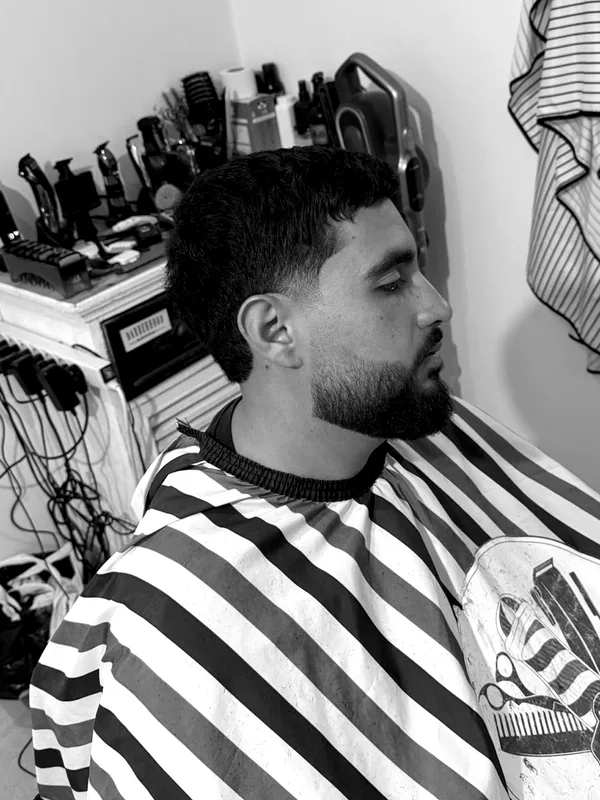
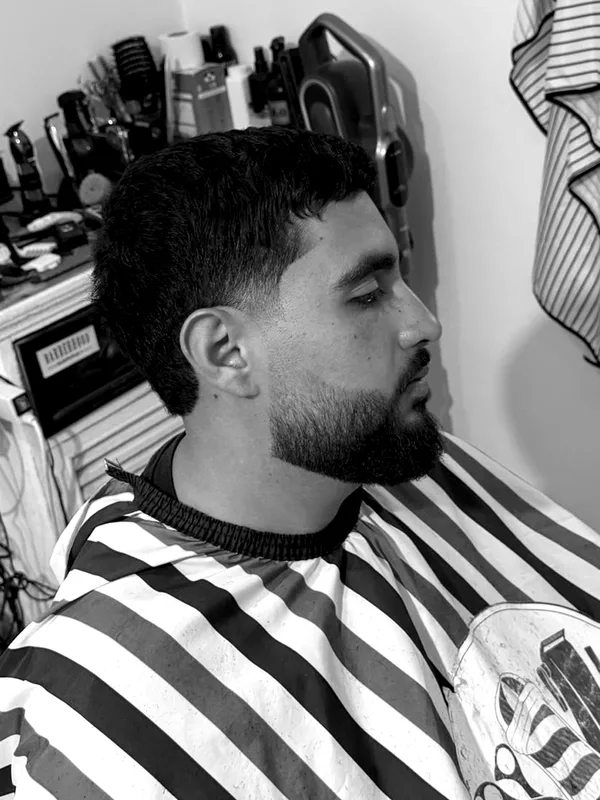
Tighter crop for gallery photo 5 to match the others
Claude-Session: https://claude.ai/code/session_018U6XnTRw8cfK5aTqAa1Hdx

diff --git a/index.html b/index.html
@@ -57,7 +57,7 @@
         <figure><div class="ph"><img src="img/work2.webp" alt="מידל פארט עם פלואו אחורי" loading="lazy" width="600" height="800"></div><figcaption><b>מידל פארט עם פלואו אחורי</b></figcaption></figure>
         <figure><div class="ph"><img src="img/work3.webp" alt="בארסט פייד" loading="lazy" width="600" height="800"></div><figcaption><b>בארסט פייד</b></figcaption></figure>
         <figure><div class="ph"><img src="img/work4.webp" alt="טייפר וזקן" loading="lazy" width="600" height="800"></div><figcaption><b>טייפר וזקן</b></figcaption></figure>
-        <figure><div class="ph"><img src="img/work5.webp" alt="תספורת וזקן מלא מעוצב" loading="lazy" width="600" height="800"></div><figcaption><b>זקן מלא מעוצב</b></figcaption></figure>
+        <figure><div class="ph"><img src="img/work5.webp?v=2" alt="תספורת וזקן מלא מעוצב" loading="lazy" width="600" height="800"></div><figcaption><b>זקן מלא מעוצב</b></figcaption></figure>
       </div>
     </section>
   </div>
